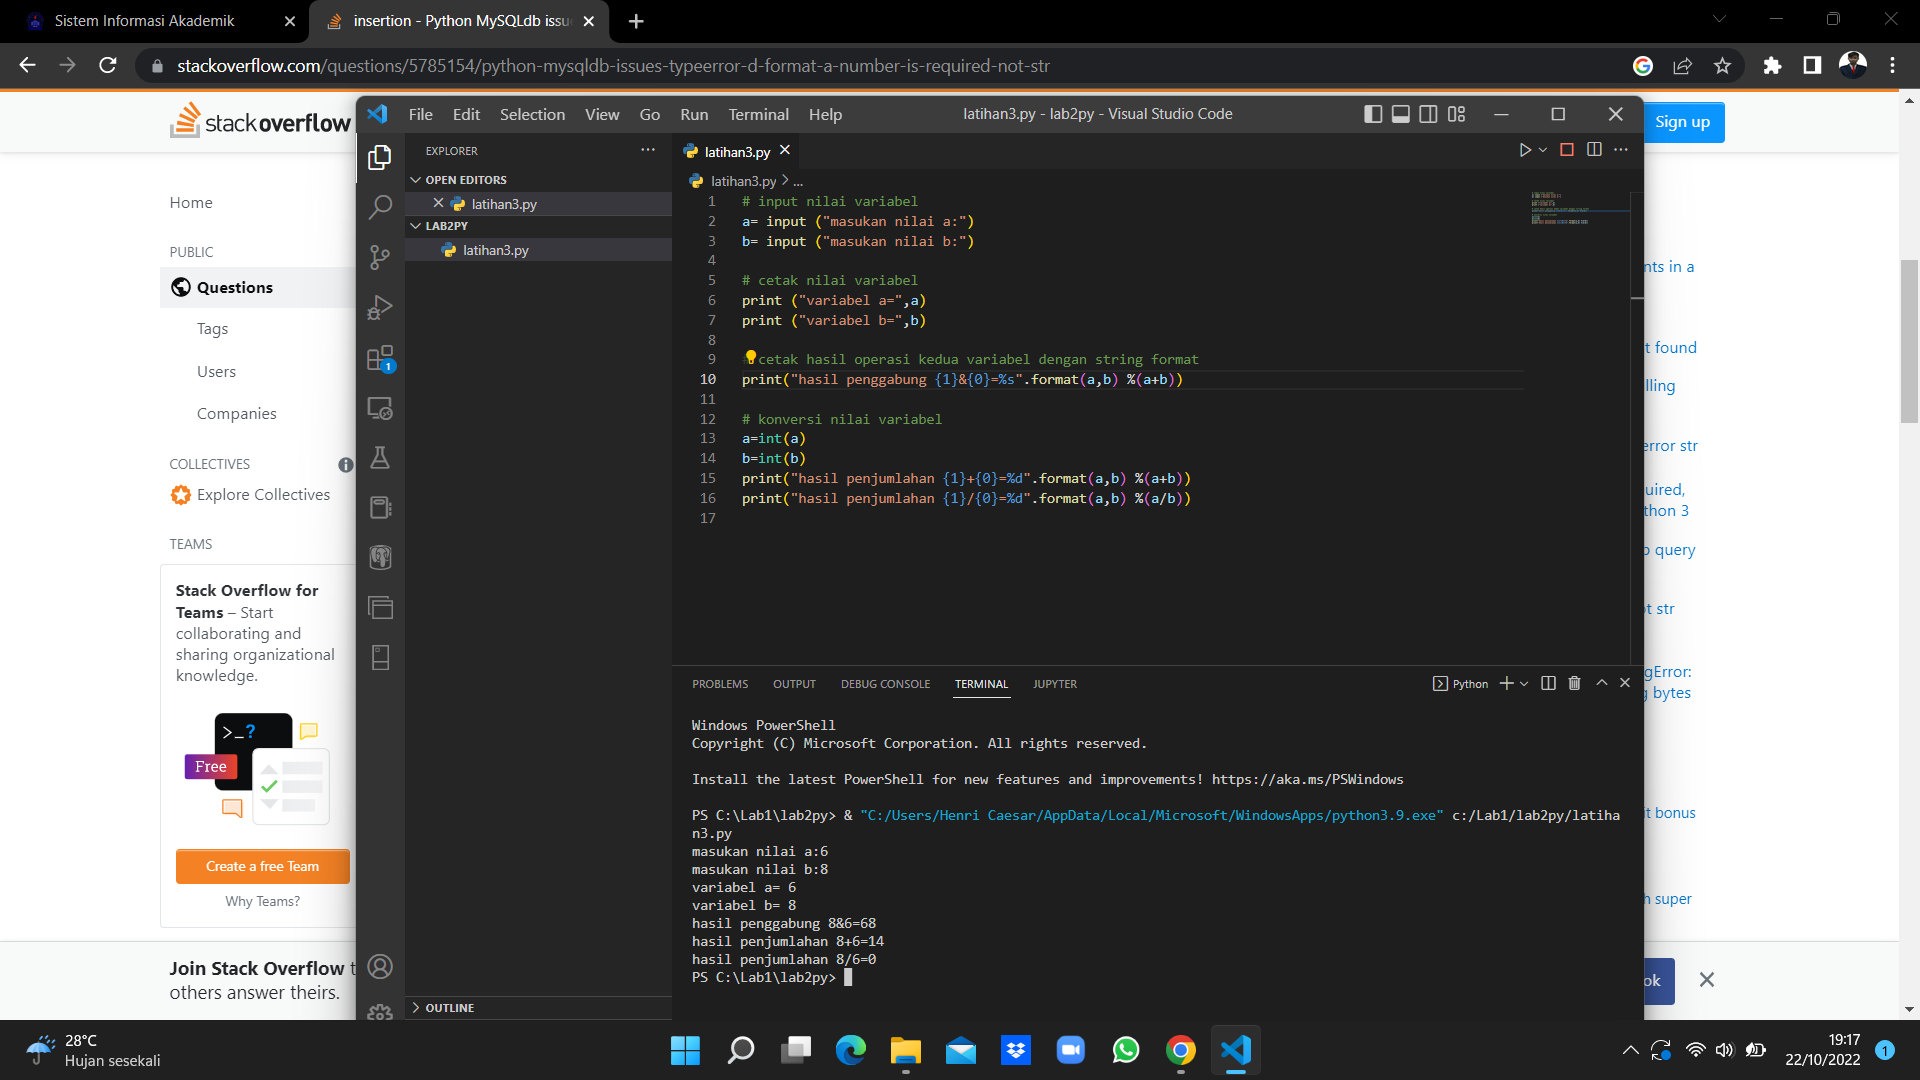
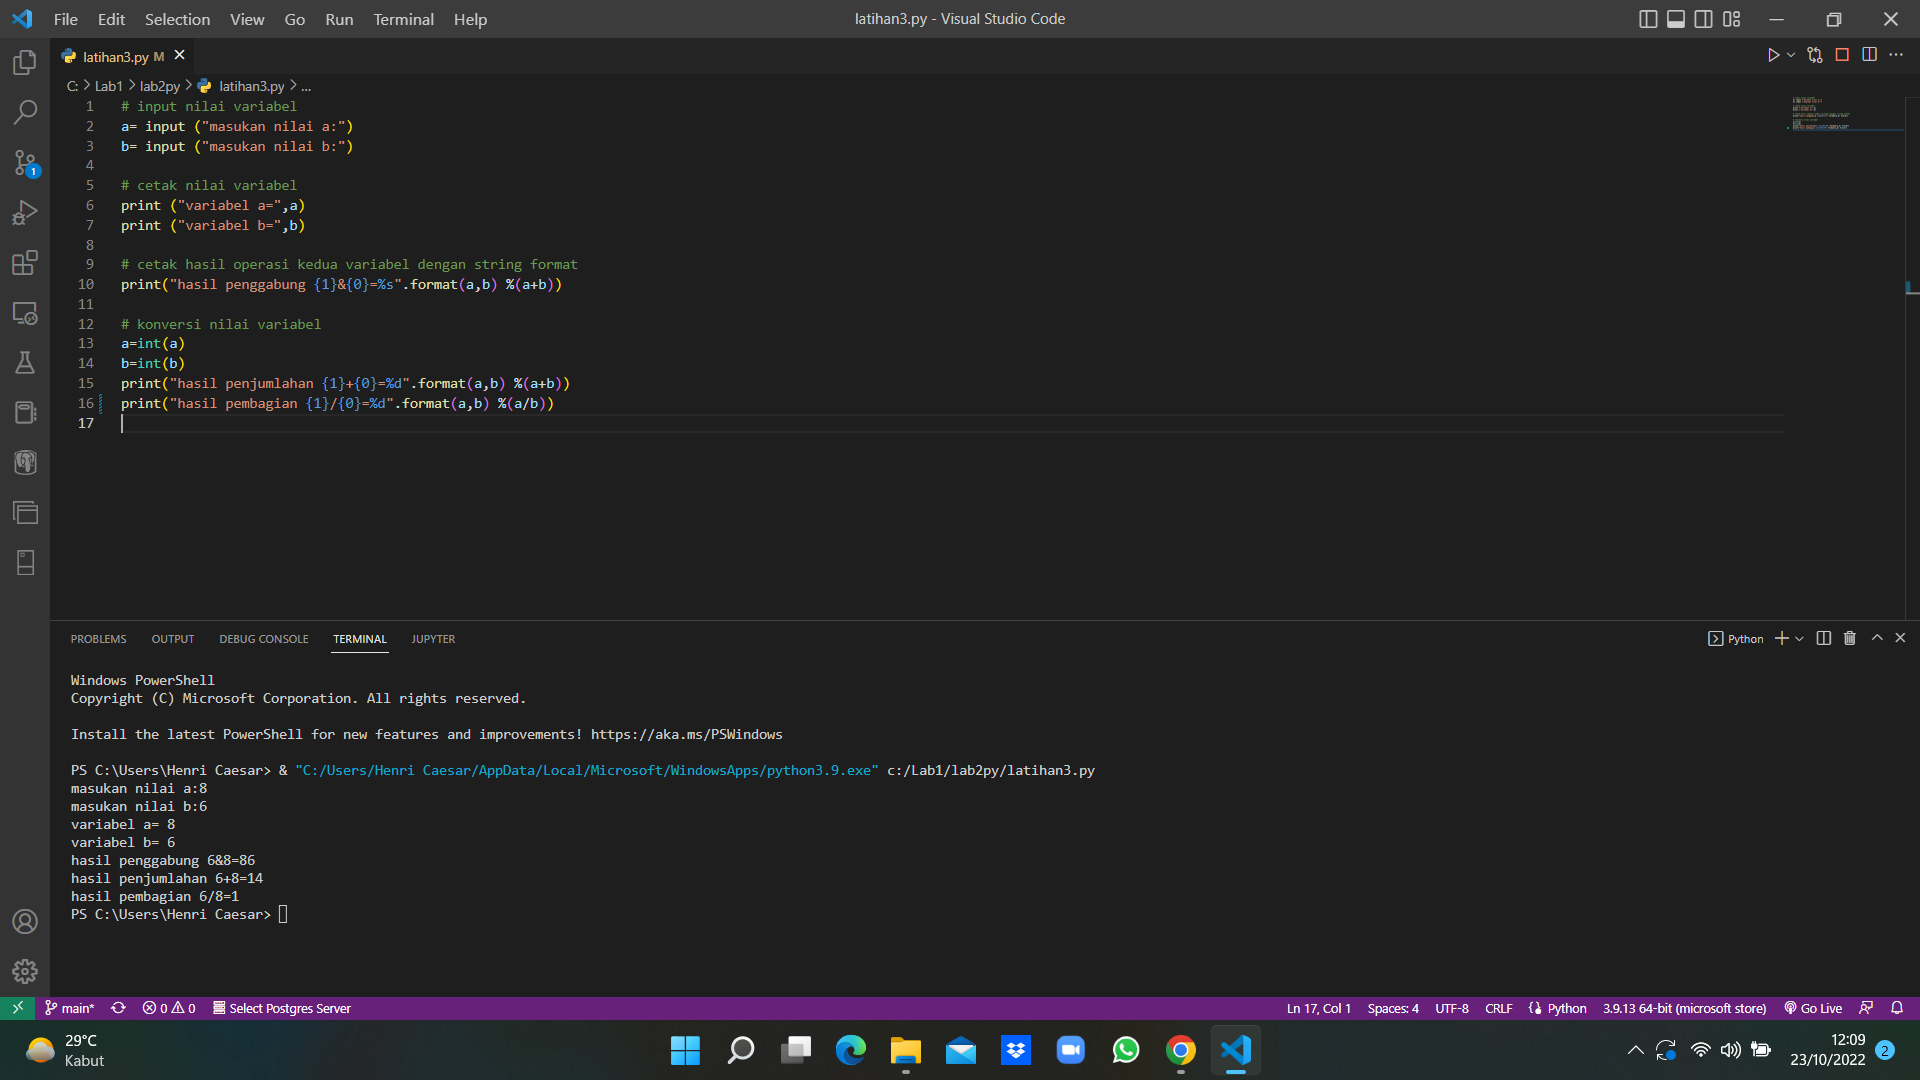
memperbarui latihan3.py dan screenshot

diff --git a/latihan3.py b/latihan3.py
@@ -13,4 +13,4 @@ print("hasil penggabung {1}&{0}=%s".format(a,b) %(a+b))
 a=int(a)
 b=int(b)
 print("hasil penjumlahan {1}+{0}=%d".format(a,b) %(a+b))
-print("hasil penjumlahan {1}/{0}=%d".format(a,b) %(a/b))
+print("hasil pembagian {1}/{0}=%d".format(a,b) %(a/b))
